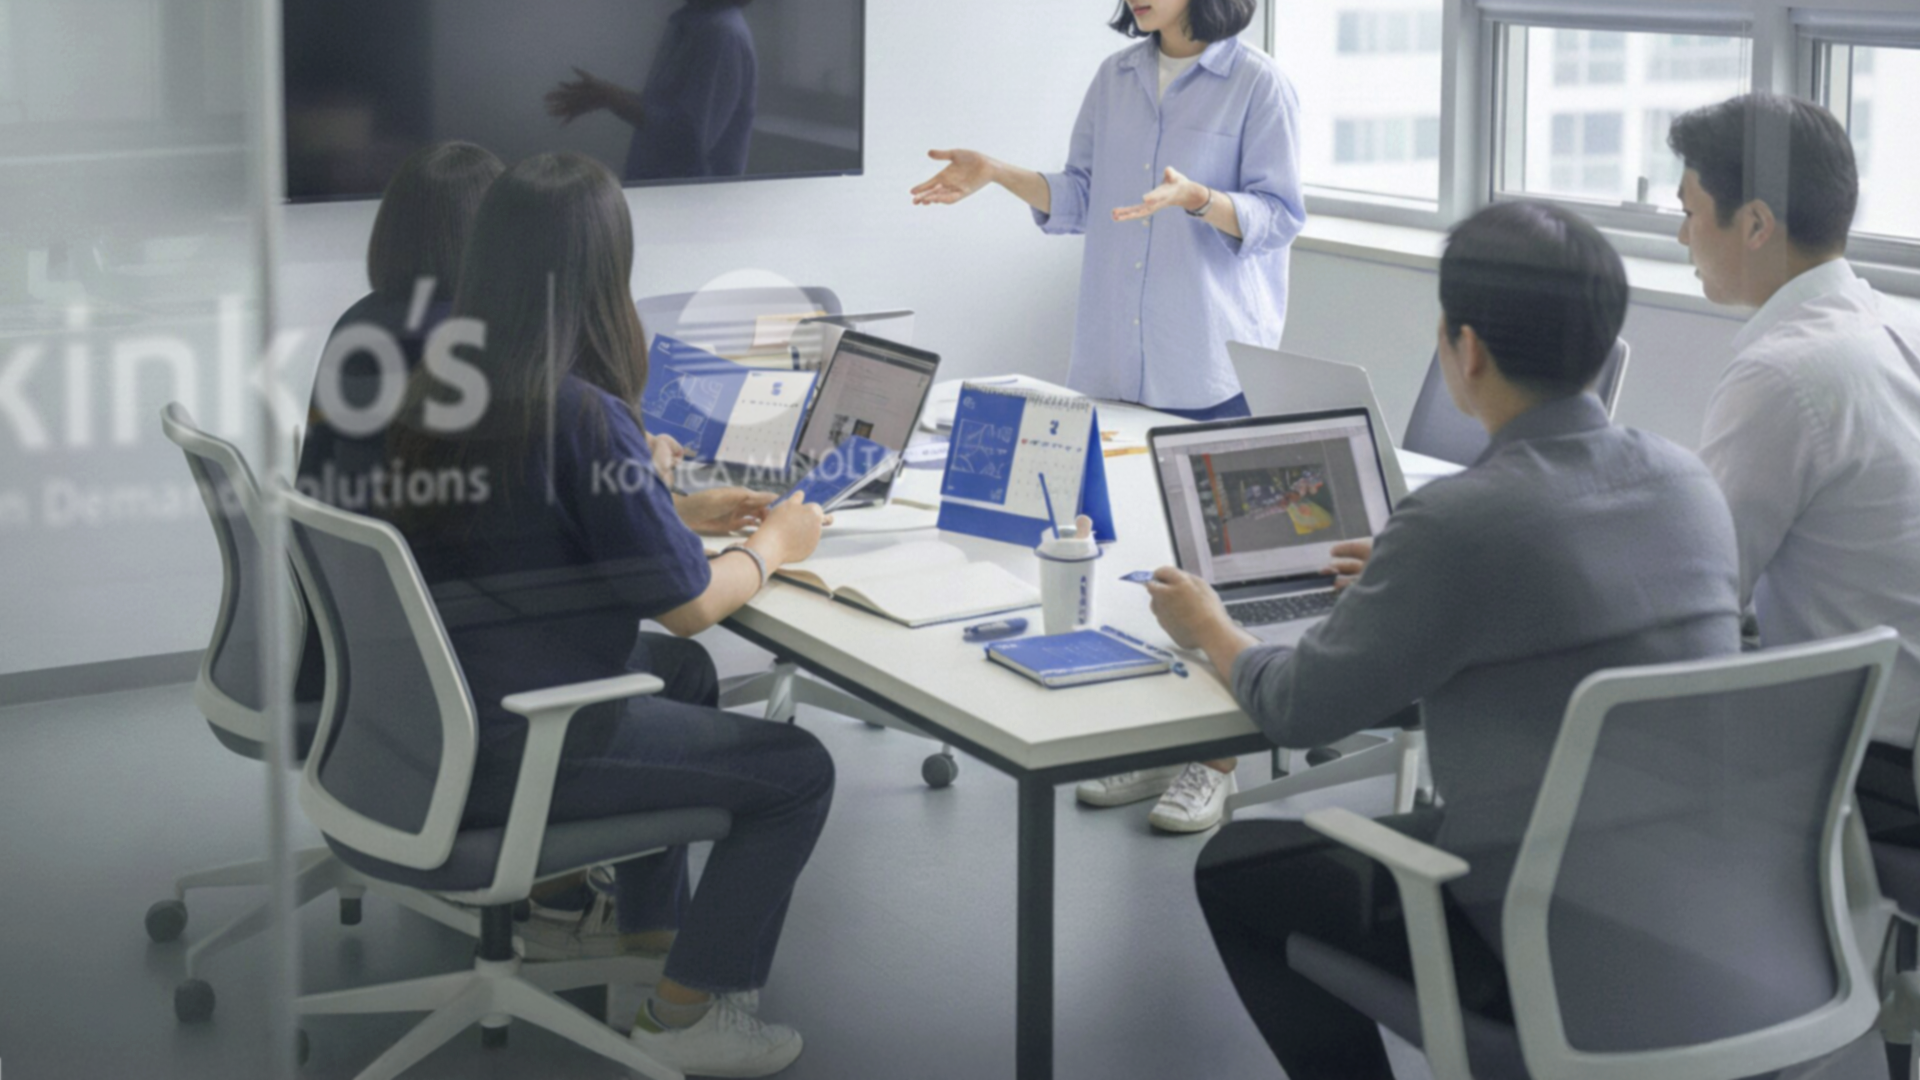
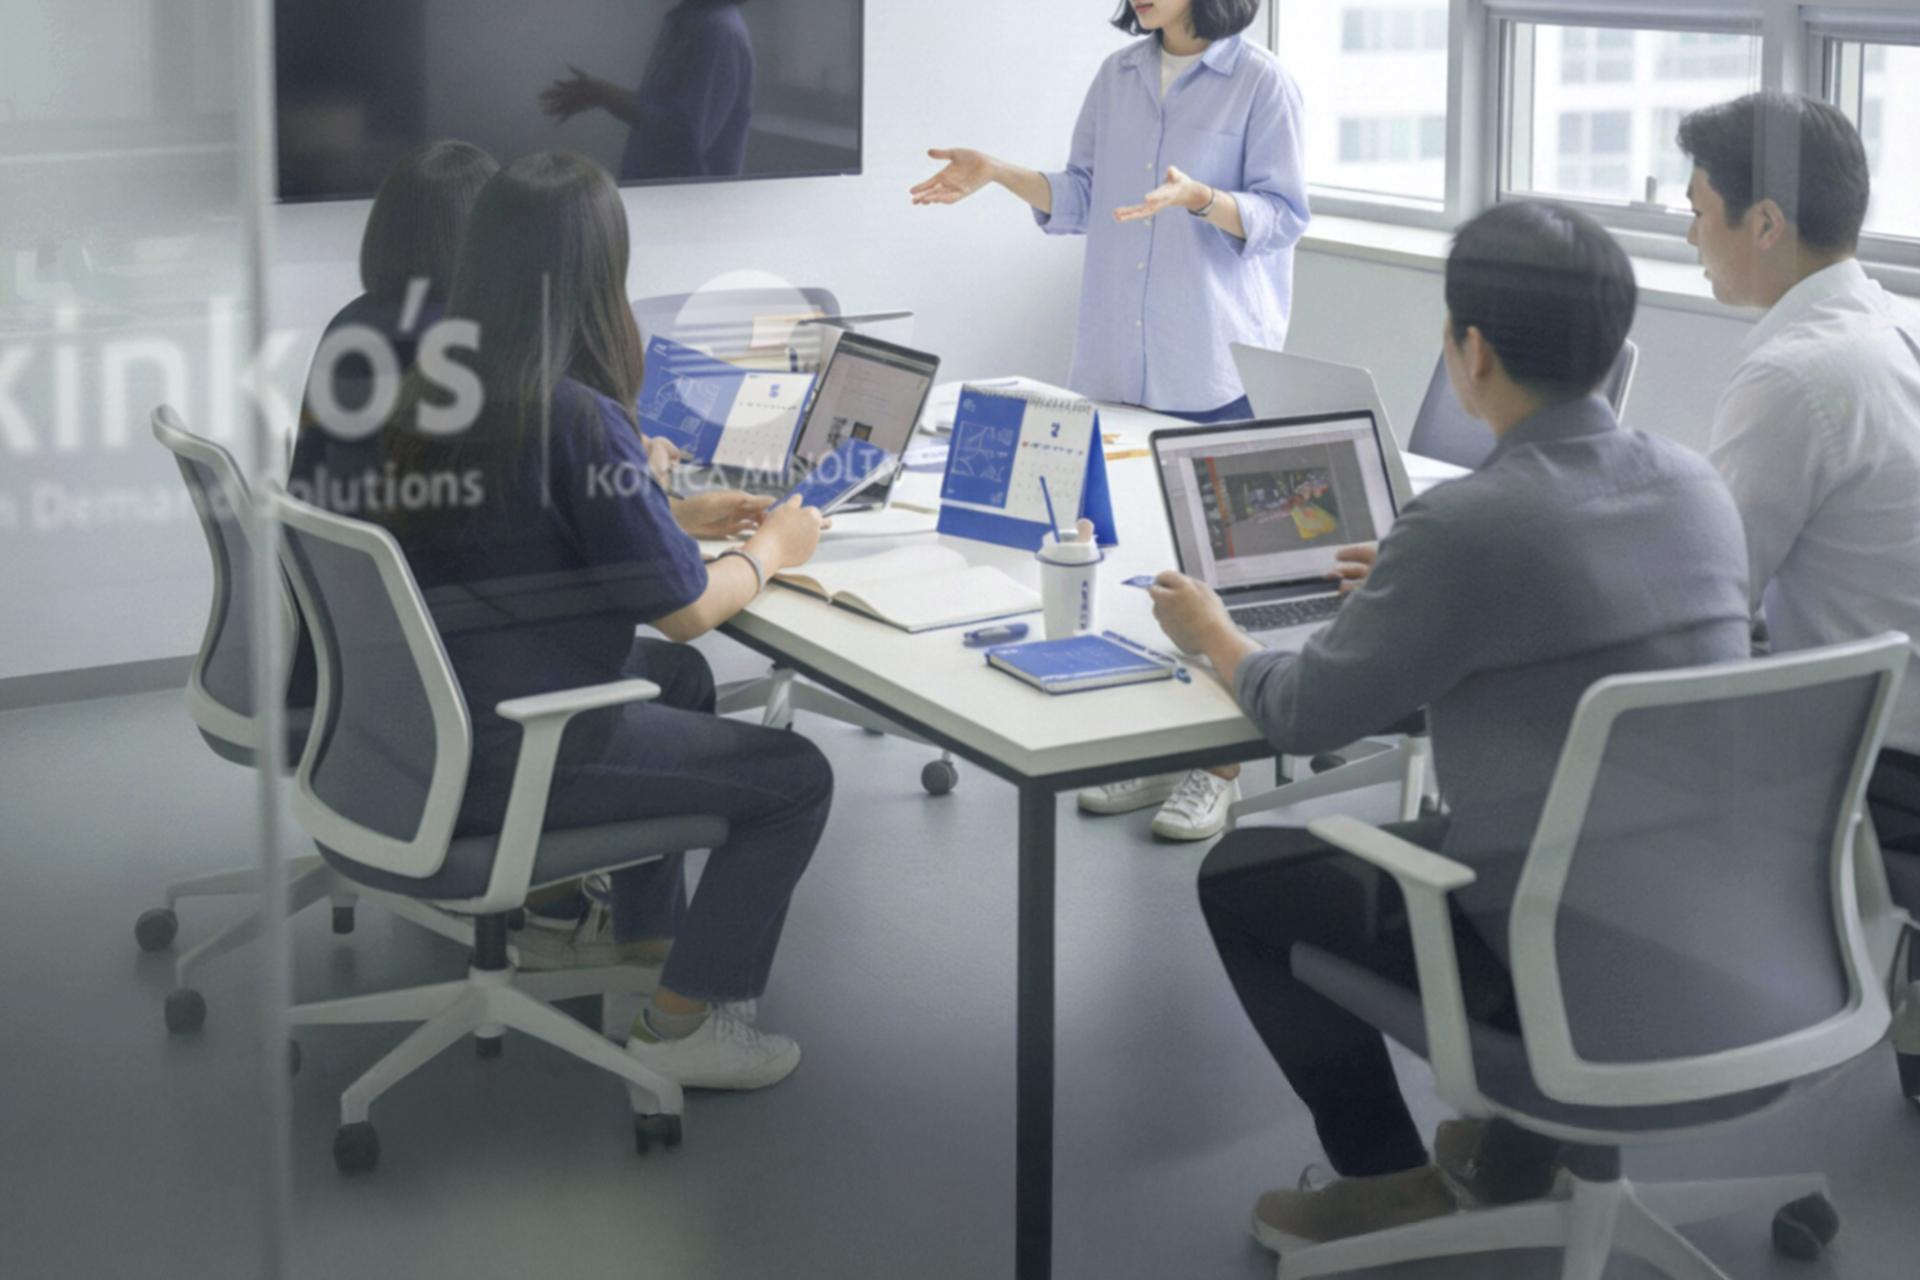
fix

diff --git a/src/templates/biz/introduction/sections/BizIntroductionFadeSection.tsx b/src/templates/biz/introduction/sections/BizIntroductionFadeSection.tsx
@@ -4,7 +4,7 @@ import { useRef } from 'react'
 
 import Image from 'next/image'
 
-import { Box, Text } from '@chakra-ui/react'
+import { Box, Image as ChakraImage, Text } from '@chakra-ui/react'
 import { useGSAP } from '@gsap/react'
 
 import { gsap } from 'gsap'
@@ -108,21 +108,20 @@ export const BizIntroductionFadeSection = () => {
         top={'50%'}
         left={'50%'}
         transform={'translate(-50%, -50%)'}
-        w={'1920px'}
-        h={'1280px'}
         overflow={'hidden'}
+        w={'100vw'}
+        h={'100vh'}
       >
         <Image
           src={'/images/biz/introduce/fade-bg-1.png'}
           alt="비즈니스 맞춤 솔루션"
-          width={1920}
-          height={1280}
+          width={0}
+          height={0}
+          sizes="100vw 100vh"
           priority
           style={{
-            width: '100%',
-            height: '100%',
             objectFit: 'cover',
-            objectPosition: '50% 50%',
+            width: '100%',
           }}
         />
         {/* 어두운 오버레이 */}
@@ -144,20 +143,19 @@ export const BizIntroductionFadeSection = () => {
         top={'50%'}
         left={'50%'}
         transform={'translate(-50%, -50%)'}
-        w={'1920px'}
-        h={'1282px'}
+        w={'100vw'}
+        h={'100vh'}
         overflow={'hidden'}
       >
         <Image
           src={'/images/biz/introduce/fade-bg-2.png'}
           alt="비즈니스 가치를 디자인하는 킨코스"
-          width={1920}
-          height={1282}
+          width={0}
+          height={0}
+          sizes="100vw 100vh"
           style={{
-            width: '100%',
-            height: '100%',
+            width: '100vw',
             objectFit: 'cover',
-            objectPosition: '50% 50%',
           }}
         />
         {/* 어두운 오버레이 */}
